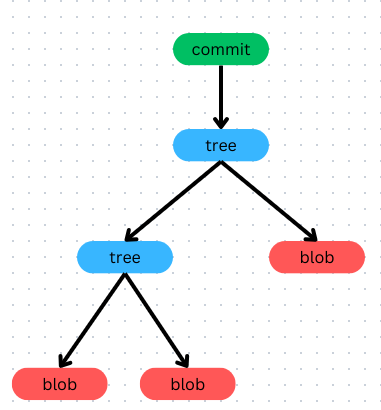
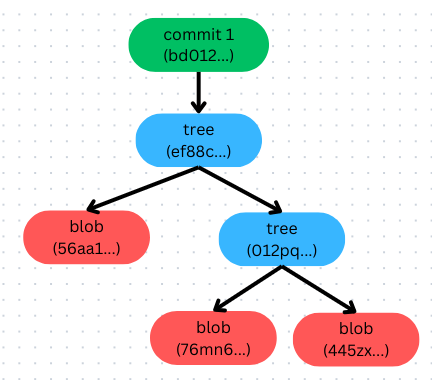
continue write git under the hood 7-11-2023

diff --git a/content/post/git-under-the-hood.md b/content/post/git-under-the-hood.md
@@ -82,7 +82,7 @@ For example, I have a directory like this
 
 Let's commit those files to see what happen
 ![avatar](/photos/git-under-the-hood/image-11.png)
-Take a look at this graph, we can see that, Git structure our commit quite similar to working directory. The first `tree` node is a snapshot of our working directory and `commit` node will point to that `tree` node. Now let’s assume that I change the `index.js` file and commit again
+Take a look at this graph, we can see that, Git structure our commit quite similar to working directory. The `tree(ef88c...)` node is a snapshot of our working directory and `commit(bd012...)` node will point to `tree(ef88c...)` node. Now let’s assume that I change the `index.js` file and commit again
 ![avatar](/photos/git-under-the-hood/image-12.png)
 Since the content of `index.js` has  changed so its SHA-1 also been changed. That why git create another blob. One thing we should notice here is that why Git won't create another blob of `config.js` and `database.js`? 
 
@@ -92,11 +92,28 @@ It's quite easy to figure out from `index.js`.
 - `config.js` => Content remain => SHA-1 remain => Old blob
 - `database.js` => Content remain => SHA-1 remain => Old blob
 
-Since the content of `config.js` and `database.js` didn't change, Git only need point the `tree(SHA-1)` to `tree(SHA-1)`.
+Since the content of `config.js` and `database.js` didn't change, Git only need point the `tree(z123a...)` to `tree(012pq...)`.
 
 How about delete `config.js`?
+![avatar](/photos/git-under-the-hood/image-13.png)
 
+Let's repeat above steps
+- `index.js` => Content changed => SHA-1 changed => New blob
+- `database.js` => Content remain => SHA-1 remain => Old blob
+- `config.js` => Deleted => No blob
+
+Notice that SHA-1 of `tree(012pq...)` made from SHA-1 of `blob(76mb6...)` and `blob(445zx...)` so any of those blob changed lead to change SHA-1 of `tree`. Since we deleted `config.js` so Git will create another tree that only need to point to `blob(445zx)`(database.js). The cool thing here is that even thought we deleted `config.js` but it's actually still being stored in Git database. When we back to `commit 1` or `commit 2`, we can still get `config.js`.
 ## `.git` folder
+Have you ever tried to figure out what inside of it? If not, try with me.
+
+![avatar](/photos/git-under-the-hood/image-14.png)
+
+Here is what inside `.git` folder. We should care about 3 things:  `objects`, `refs` and `HEAD`.
+
+### objects
+As I mentioned early, objects just like a database of Git, it store blobs, trees and commits.
+
+Let's create a commit
 
 
 
